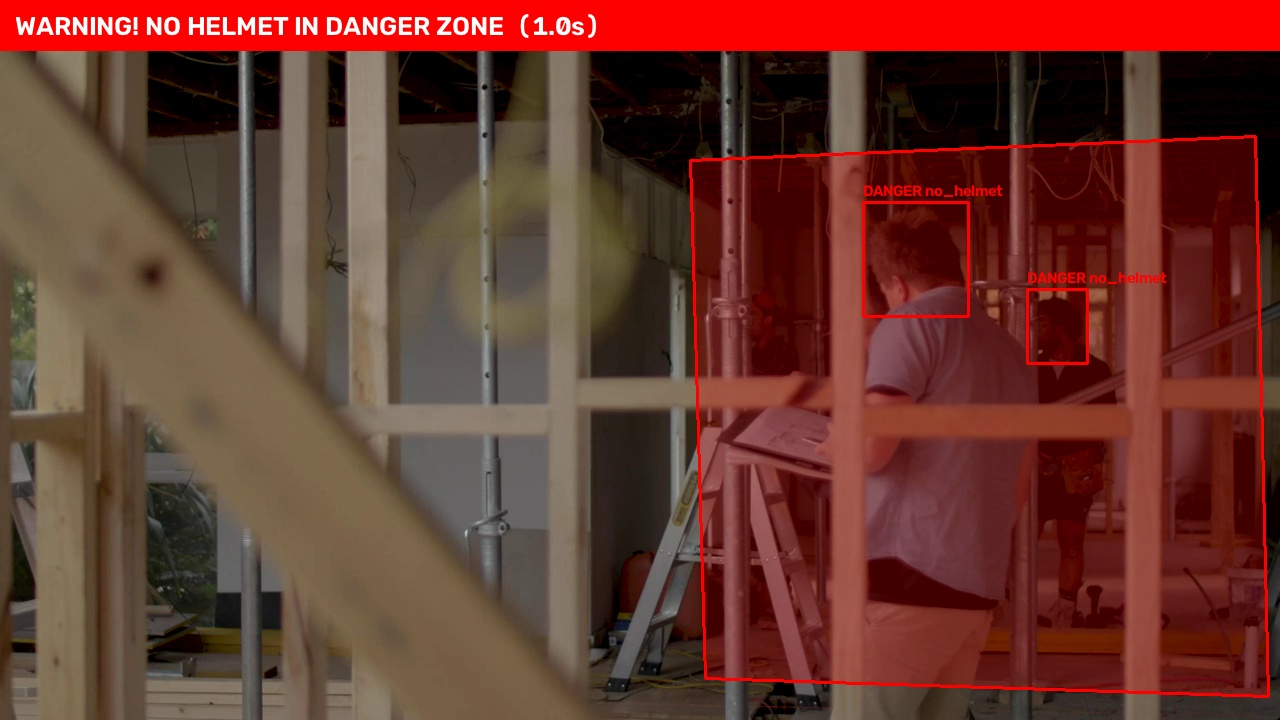
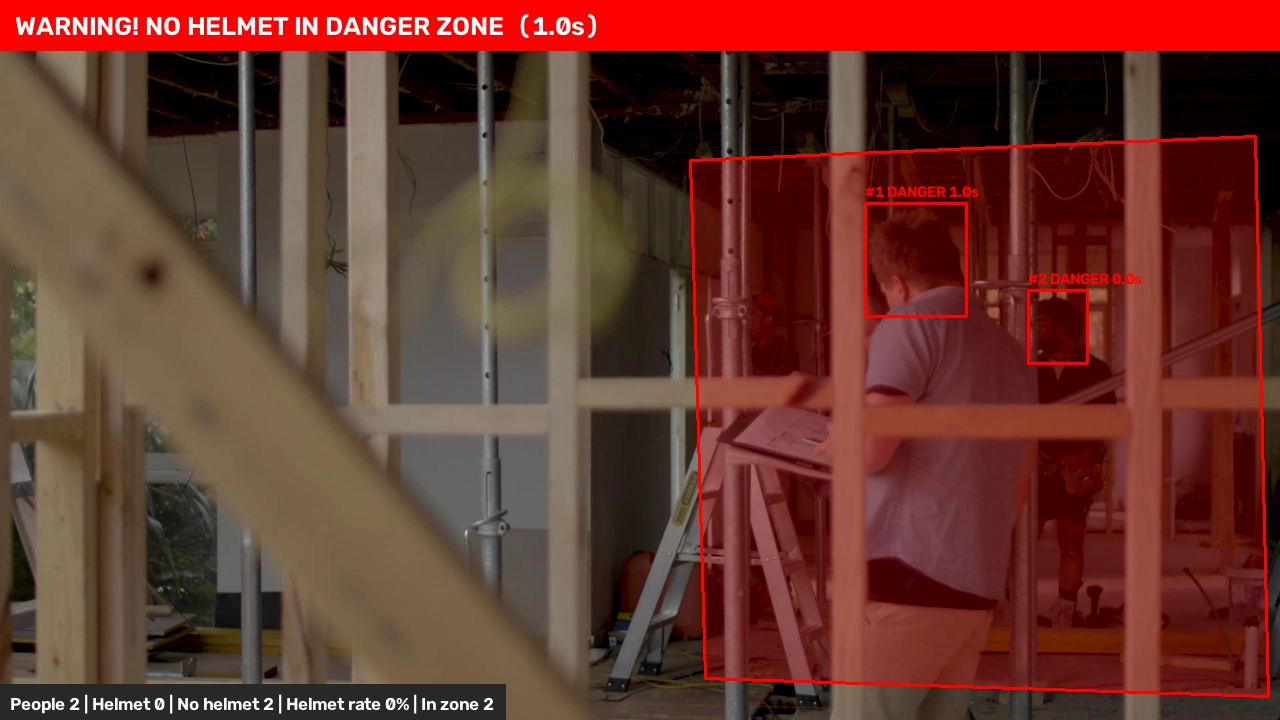
위험 구역 경고에 사람 추적(ID)과 착용률 통계 추가
- alert.py: ByteTrack으로 사람마다 번호를 붙이고 사람별 위험 시간 표시·요약 (--no-track)
- alert.py: 화면 아래 현장 통계(사람 수, 착용/미착용, 착용률) 표시와 평균 착용률 요약 (--no-stats)
- 경고 기록 csv에 위험 ID 칸 추가
- requirements.txt에 추적용 lap 추가
- 데모 GIF와 경고 예시 사진을 새 화면으로 교체, README에 테스트 결과 정리

Changed region(s): [[0.0, 0.9472, 0.4062, 1.0], [0.6562, 0.2444, 0.9062, 0.4278]]

diff --git a/3_alert_system/alert.py b/3_alert_system/alert.py
@@ -8,6 +8,8 @@
     - 구역 밖                          -> 연한 색으로만 표시
     - 위험이 1초 이상 계속되면 경고: 화면 위 빨간 띠 + Windows 경고음 (--alert-after, --no-sound)
     - 경고 기록: 3_alert_system/logs/ 에 경고마다 화면 사진(.jpg)과 표(.csv) 한 줄 (--no-log 로 끄기)
+    - 사람 추적: 사람마다 번호(#1, #2 ...)를 붙이고 위험했던 시간을 따로 재요 (--no-track 로 끄기)
+    - 현장 통계: 화면 아래에 사람 수, 착용/미착용, 착용률 표시 (--no-stats 로 끄기)
     - 데모 GIF 저장: --save-gif 경로 (README 에 넣을 움직이는 그림, 영상 파일은 한 번만 재생)
 
 1) 먼저 위험 구역 정하기 (한 번만 하면 zone.json 에 저장돼요):
@@ -54,7 +56,7 @@ from webcam import get_boxes, iou, smooth_box  # noqa: E402 (경로를 추가한
 
 ZONE_FILE = Path(__file__).resolve().parent / "zone.json"  # 위험 구역 좌표를 저장할 파일
 LOG_DIR = Path(__file__).resolve().parent / "logs"  # 경고 기록(csv)과 사진을 저장할 폴더 (커밋 안 함)
-LOG_COLUMNS = ["번호", "시작 시각", "영상 속 시간(초)", "위험 인원", "지속 시간(초)", "사진"]
+LOG_COLUMNS = ["번호", "시작 시각", "영상 속 시간(초)", "위험 인원", "위험 ID", "지속 시간(초)", "사진"]
 DEFAULT_MODEL = ROOT / "runs" / "helmet_shwd" / "weights" / "best_int8_openvino_model"  # 개선 모델 INT8
 WINDOW = "danger zone"
 
@@ -177,6 +179,25 @@ def draw_banner(frame, text, color):
     cv2.putText(frame, text, (15, 35), cv2.FONT_HERSHEY_SIMPLEX, 0.9, (255, 255, 255), 2)
 
 
+def draw_stats(frame, people):
+    """화면 왼쪽 아래에 현장 통계(사람 수, 착용/미착용, 착용률)를 써요.
+
+    미착용은 화면의 빨간 박스와 같은 기준(안전 우선 규칙 포함)으로 세요.
+    OpenCV 글자 함수는 한글을 못 써서 영어로 표시해요.
+    """
+    total = len(people)
+    no_helmet = sum(risky for *_, risky in people)
+    helmet = total - no_helmet
+    in_zone_n = sum(inside for *_, inside, _ in people)
+    rate = f"{helmet / total * 100:.0f}%" if total else "-"  # 사람이 없으면 비율 대신 '-'
+    text = f"People {total} | Helmet {helmet} | No helmet {no_helmet} | Helmet rate {rate} | In zone {in_zone_n}"
+    h = frame.shape[0]
+    (tw, th), _ = cv2.getTextSize(text, cv2.FONT_HERSHEY_SIMPLEX, 0.6, 2)  # 글자가 차지할 크기
+    cv2.rectangle(frame, (0, h - th - 20), (tw + 20, h), (40, 40, 40), -1)  # 글자 뒤 어두운 바탕
+    cv2.putText(frame, text, (10, h - 10), cv2.FONT_HERSHEY_SIMPLEX, 0.6, (255, 255, 255), 2)
+    return total, helmet
+
+
 class AlertLog:
     """경고 기록 담당: 경고가 시작되면 화면 사진을 저장하고, 끝나면 표(csv)에 한 줄 적어요.
 
@@ -193,13 +214,17 @@ class AlertLog:
             csv.writer(f).writerow(LOG_COLUMNS)  # 첫 줄 = 제목 줄
         self.current = None  # 지금 울리고 있는 경고 정보 (없으면 None)
 
-    def start(self, no, video_sec, people, frame):
-        """경고가 시작된 순간: 화면 사진을 저장하고 정보를 기억해 둬요."""
+    def start(self, no, video_sec, risky_ids, frame):
+        """경고가 시작된 순간: 화면 사진을 저장하고 정보를 기억해 둬요.
+
+        risky_ids: 위험한 사람들의 추적 번호 목록 (추적을 안 하면 None 들이 들어 있어요)
+        """
         photo = self.dir / f"alert_{self.stamp}_{no:03d}.jpg"  # 예: alert_20261117_153000_001.jpg
         cv2.imwrite(str(photo), frame)
+        ids = " ".join(f"#{i}" for i in risky_ids if i is not None)  # 예: "#1 #3"
         self.current = {"번호": no, "시작 시각": datetime.now().strftime("%Y-%m-%d %H:%M:%S"),
-                        "영상 속 시간(초)": round(video_sec, 1), "위험 인원": people,
-                        "사진": photo.name, "_start": video_sec}
+                        "영상 속 시간(초)": round(video_sec, 1), "위험 인원": len(risky_ids),
+                        "위험 ID": ids, "사진": photo.name, "_start": video_sec}
 
     def end(self, video_sec):
         """경고가 끝난 순간: 얼마나 계속됐는지 계산해서 csv 에 한 줄 적어요."""
@@ -211,6 +236,16 @@ class AlertLog:
         with open(self.csv_path, "a", newline="", encoding="utf-8") as f:
             csv.writer(f).writerow([row[c] for c in LOG_COLUMNS])
         self.current = None
+
+
+def get_ids(result):
+    """모델 결과에서 박스마다의 추적 번호(ID)를 꺼내요. get_boxes 와 같은 순서예요.
+
+    추적을 안 했거나 아직 번호가 없으면 None 으로 채워요.
+    """
+    if result.boxes.id is None:
+        return [None] * len(result.boxes)
+    return [int(i) for i in result.boxes.id]
 
 
 def to_gif_frame(frame, width):
@@ -263,10 +298,15 @@ def run(args):
     history = deque()
     keep = max(args.smooth, args.danger_window)  # 기록은 둘 중 더 긴 시간만큼 보관
     frame_no, start = 0, time.perf_counter()
-    counts = {"frames": 0, "red": 0, "green": 0, "alerts": 0, "alert_time": 0.0}  # 끝날 때 요약할 숫자
+    counts = {"frames": 0, "red": 0, "green": 0, "alerts": 0, "alert_time": 0.0,
+              "people": 0, "helmet": 0}  # 끝날 때 요약할 숫자
     danger_since = None  # 위험이 '연속으로' 시작된 시각 (위험이 아니면 None)
     alerting, last_beep, prev_now = False, 0.0, None  # 경고 중인지, 마지막 경고음 시각, 직전 장의 시각
     log = AlertLog(args.log_dir) if args.log else None  # 경고 기록 담당 (--no-log 면 기록 안 함)
+    new_round = True  # 추적을 새로 시작해야 하는지 (처음, 영상을 되감았을 때)
+    last_ids = []  # last_boxes 와 같은 순서의 추적 번호들
+    danger_time = {}  # 추적 번호 -> 위험 구역에서 안전모 없이 있었던 시간(초)
+    seen_ids = set()  # 지금까지 화면에 나온 추적 번호들 (몇 명을 봤는지 세려고)
     while True:
         ok, frame = cap.read()
         if not ok:
@@ -277,9 +317,17 @@ def run(args):
                 last_boxes, history = [], deque()  # 이전 바퀴의 박스 기억은 지워요
                 frame_no, start = 0, time.perf_counter()
                 danger_since, alerting, prev_now = None, False, None  # 경고 상태도 처음부터
+                new_round, last_ids, danger_time = True, [], {}  # 추적 번호와 사람별 위험 시간도 처음부터
                 continue
             break
-        result = model(frame, conf=args.conf, verbose=False)[0]
+        if args.track:
+            # track: 감지 + 추적. 앞 장면의 사람과 이어 붙여서 박스마다 번호(ID)를 붙여요.
+            # persist=True: 앞 장면 기억을 이어 써요. 새 바퀴 첫 장면만 False 로 해서 기억을 새로 시작해요.
+            result = model.track(frame, conf=args.conf, persist=not new_round, tracker=args.tracker,
+                                 verbose=False)[0]
+        else:
+            result = model(frame, conf=args.conf, verbose=False)[0]  # 추적 없이 감지만
+        new_round = False
 
         # 시간 재기: 영상 파일은 '영상 속 시간'(몇 번째 장 / 초당 장 수)을 써요.
         # 컴퓨터가 영상보다 빨리 처리해도 1초는 영상 속 1초가 되게 하려고요.
@@ -293,40 +341,55 @@ def run(args):
             now = time.perf_counter()
 
         boxes = get_boxes(result)
+        ids = get_ids(result)  # boxes 와 같은 순서의 추적 번호 (추적을 안 하면 모두 None)
+        seen_ids.update(i for i in ids if i is not None)
         history.append((now, boxes))
         while history and now - history[0][0] > keep:
             history.popleft()
         recent = [h for h in history if now - h[0] <= args.smooth]  # 크기·색 정하기는 최근 smooth 초만
         if boxes:
-            last_boxes, last_seen = boxes, now
+            last_boxes, last_ids, last_seen = boxes, ids, now
         shown = []
         if last_boxes and now - last_seen <= args.hold:
-            shown = [smooth_box(xyxy, cls, conf, recent) for xyxy, cls, conf in last_boxes]
+            # zip: 두 목록을 같은 순서끼리 짝지어요 (박스, 그 박스의 번호)
+            shown = [(*smooth_box(xyxy, cls, conf, recent), tid) for (xyxy, cls, conf), tid in zip(last_boxes, last_ids)]
 
         # 안전 우선 규칙: 최근 danger_window 초 동안 no_helmet 표가 danger_ratio 이상이면 '위험'
         # (안전모를 안 쓴 사람을 놓치는 것이, 쓴 사람을 한 번 더 경고하는 것보다 훨씬 위험하니까요)
         names = result.names
-        people = []  # (박스, 확신도, 구역 안인지, 위험인지)
-        for xyxy, cls, conf in shown:
+        dt = now - prev_now if prev_now is not None else 0.0  # 직전 장면에서 지금까지 흐른 시간
+        people = []  # (박스, 클래스, 확신도, 추적 번호, 구역 안인지, 위험인지)
+        for xyxy, cls, conf, tid in shown:
             inside = in_zone(zone, xyxy)
             risky = names[cls] == "no_helmet" or no_helmet_share(xyxy, history, names) >= args.danger_ratio
-            people.append((xyxy, cls, conf, inside, risky))
+            if inside and risky and tid is not None:
+                danger_time[tid] = danger_time.get(tid, 0.0) + dt  # 이 사람의 위험 시간 쌓기
+            people.append((xyxy, cls, conf, tid, inside, risky))
         danger = any(inside and risky for *_, inside, risky in people)
         draw_zone(frame, zone, danger)
         counts["frames"] += 1
         counts["red"] += sum(inside and risky for *_, inside, risky in people)
         counts["green"] += sum(inside and not risky for *_, inside, risky in people)
 
-        for (x1, y1, x2, y2), cls, conf, inside, risky in people:
+        for (x1, y1, x2, y2), cls, conf, tid, inside, risky in people:
             name = names[cls]
+            tag = f"#{tid} " if tid is not None else ""  # 추적 번호 표시 (예: "#3 ")
             if not inside:
-                color, label = GRAY, f"{name} {conf:.2f}"  # 구역 밖: 회색
+                color, label = GRAY, f"{tag}{name} {conf:.2f}"  # 구역 밖: 회색
             elif risky:
-                color, label = RED, "DANGER no_helmet"  # 구역 안 + 안전모 안 씀(또는 의심)
+                # 구역 안 + 안전모 안 씀(또는 의심). 이 사람이 위험했던 시간을 같이 보여 줘요
+                sec = f" {danger_time.get(tid, 0.0):.1f}s" if tid is not None else ""
+                color, label = RED, f"{tag}DANGER{sec}"
             else:
-                color, label = GREEN, f"{name} {conf:.2f}"  # 구역 안 + 안전모 씀
+                color, label = GREEN, f"{tag}{name} {conf:.2f}"  # 구역 안 + 안전모 씀
             cv2.rectangle(frame, (x1, y1), (x2, y2), color, 2)
             cv2.putText(frame, label, (x1, max(y1 - 6, 12)), cv2.FONT_HERSHEY_SIMPLEX, 0.5, color, 2)
+
+        # 현장 통계 표시 (경고 사진에도 찍히게 경고 판단보다 먼저 그려요, 끝날 때 평균 착용률도 계산)
+        if args.stats:
+            total, helmet = draw_stats(frame, people)
+            counts["people"] += total
+            counts["helmet"] += helmet
 
         # ===== 경고 판단: 위험이 alert_after 초 이상 '계속'되면 경고 =====
         # 잠깐 스쳐 지나가는 사람이나 한두 장의 잘못된 판단으로는 경고가 울리지 않게 해요
@@ -352,7 +415,8 @@ def run(args):
                 last_beep = wall
             draw_banner(frame, f"WARNING! NO HELMET IN DANGER ZONE  ({danger_for:.1f}s)", RED)
             if log and not was_alerting:  # 경고 시작 순간의 화면(박스·띠 포함)을 사진으로 남겨요
-                log.start(counts["alerts"], now, sum(inside and risky for *_, inside, risky in people), frame)
+                risky_ids = [tid for _, _, _, tid, inside, risky in people if inside and risky]
+                log.start(counts["alerts"], now, risky_ids, frame)
         elif danger:  # 위험하지만 아직 alert_after 초가 안 됨 -> 주의 표시만
             draw_banner(frame, f"checking...  {danger_for:.1f} / {args.alert_after:.1f}s", (0, 140, 255))
         if log and was_alerting and not alerting:  # 경고가 막 끝남 -> 기록에 한 줄 적기
@@ -375,6 +439,15 @@ def run(args):
     print(f"\n===== 요약 ({counts['frames']}장) =====")
     print(f"구역 안 빨간 박스(위험): {counts['red']}개 / 구역 안 초록 박스(안전): {counts['green']}개")
     print(f"경고 {counts['alerts']}번, 경고가 울린 시간 총 {counts['alert_time']:.1f}초")
+    if args.stats and counts["people"]:
+        # 평균 착용률 = 모든 장면의 착용 박스 수 합 / 모든 장면의 사람 박스 수 합
+        print(f"평균 착용률 {counts['helmet'] / counts['people'] * 100:.1f}% "
+              f"(장면마다 센 사람 {counts['people']}명 중 착용 {counts['helmet']}명)")
+    if args.track:
+        print(f"추적한 사람(번호) {len(seen_ids)}명")
+        # 위험 시간이 긴 사람부터 (sorted ... reverse=True: 큰 값부터 줄 세우기)
+        for tid, sec in sorted(danger_time.items(), key=lambda x: x[1], reverse=True):
+            print(f"  #{tid}: 위험 구역에서 안전모 없이 {sec:.1f}초")
     if log:
         print(f"경고 기록: {log.csv_path}")
 
@@ -403,6 +476,11 @@ def main():
     parser.add_argument("--log", action=argparse.BooleanOptionalAction, default=True,
                         help="경고 기록(csv + 사진) 남기기 켜기/끄기 (--no-log 로 끄기)")
     parser.add_argument("--log-dir", default=str(LOG_DIR), help="경고 기록을 저장할 폴더")
+    parser.add_argument("--track", action=argparse.BooleanOptionalAction, default=True,
+                        help="사람 추적(번호 붙이기) 켜기/끄기 (--no-track 로 끄면 예전처럼 감지만)")
+    parser.add_argument("--tracker", default="bytetrack.yaml", help="추적 방법 설정 (ultralytics 기본 ByteTrack)")
+    parser.add_argument("--stats", action=argparse.BooleanOptionalAction, default=True,
+                        help="화면 아래 현장 통계(사람 수, 착용률) 표시 켜기/끄기 (--no-stats 로 끄기)")
     parser.add_argument("--save-gif", help="경고 화면을 GIF 로 저장할 경로 (예: images/alert_demo.gif)")
     parser.add_argument("--gif-fps", type=float, default=10, help="GIF 의 초당 장 수 (적을수록 용량이 작아요)")
     parser.add_argument("--gif-width", type=int, default=640, help="GIF 의 폭(픽셀)")
